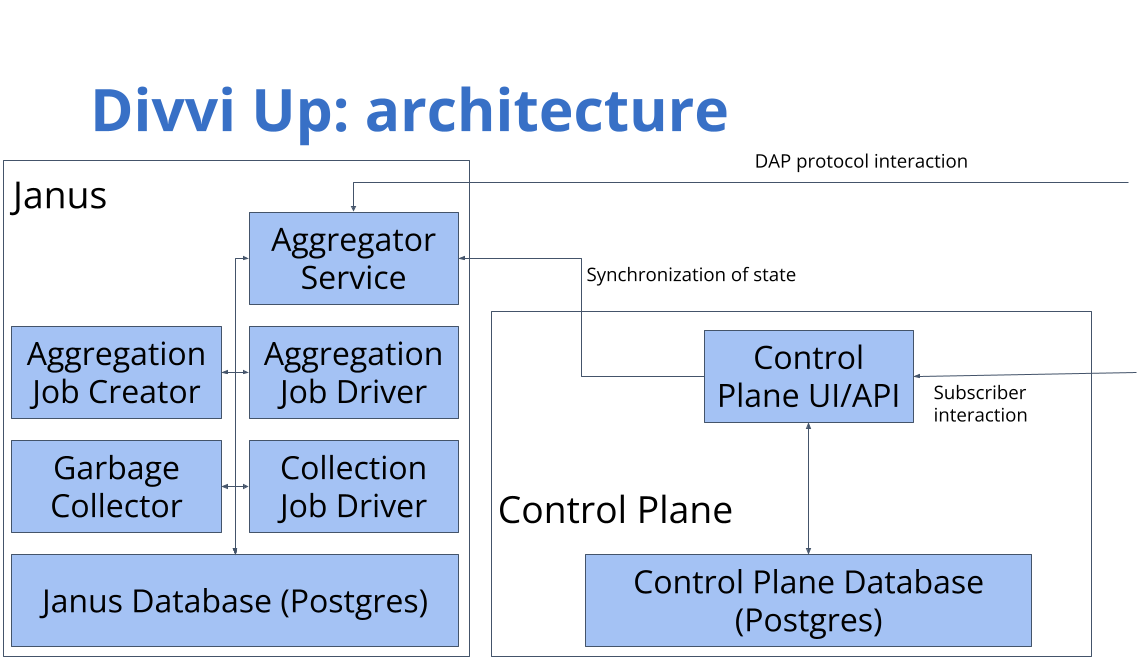
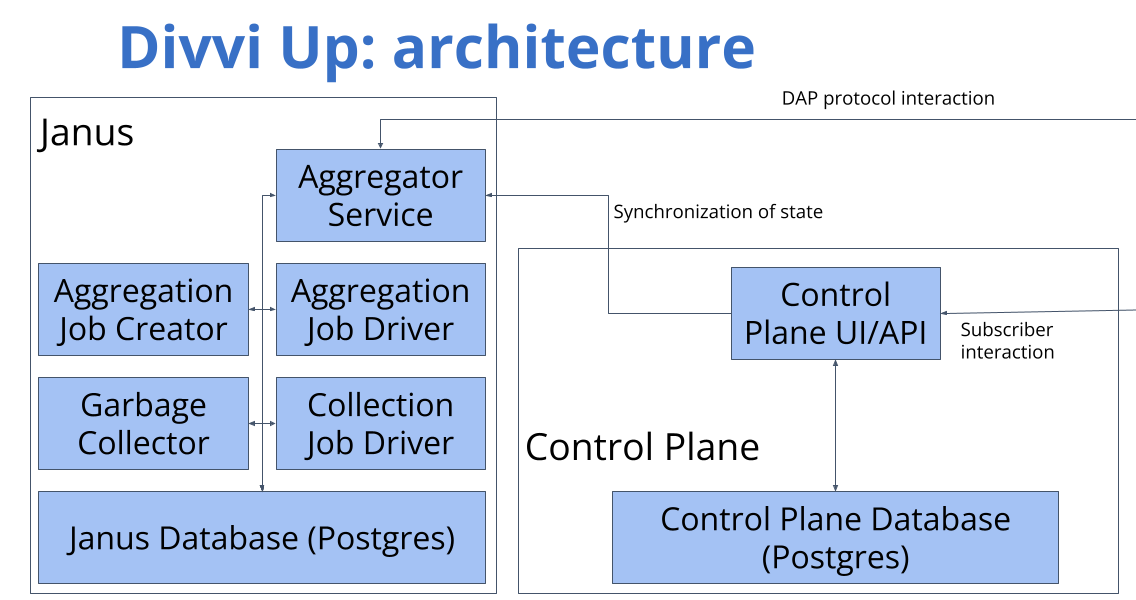
Updating figure and figcaption layout

Changed region(s): [[0.0, 0.03, 1.0, 1.0], [0.6778, 0.15, 0.8935, 0.18], [0.5238, 0.33, 0.7394, 0.36]]

diff --git a/assets/sass/post.scss b/assets/sass/post.scss
@@ -9,6 +9,8 @@ $readable_max_width: 680px;
 $readable_font_size: 20px;
 $readable_line_height: 34px;
 $readable_page_title_line_height: 1.3;
+$small_font_size: 14px;
+$small_line_height: 20px; /* Must be in px */
 $readable_page_title_font: 52px;
 
 .page__blog,
@@ -88,7 +90,7 @@ $readable_page_title_font: 52px;
     }
 
 
-    img {
+    figure,img {
       max-width: 100%;
     }
     p:has(+ img) {
@@ -96,7 +98,7 @@ $readable_page_title_font: 52px;
       margin-left: auto;
       margin-right: auto;
     }
-    .blog_list_item,h2,h3,h4,h5,h6,p,ul {
+    .blog_list_item,h2,h3,h4,h5,h6,p,ul,figcaption {
       max-width: $readable_max_width;
       margin-left: auto;
       margin-right: auto;
@@ -116,6 +118,16 @@ $readable_page_title_font: 52px;
       & > .container { /* Reset padding to make page title left aligned on posts */
         padding-left: 0;
         padding-right: 0;
+      }
+    }
+
+    figure {
+      margin-bottom: $readable_line_height;
+
+      figcaption {
+        font-size: $small_font_size;
+        line-height: $small_line_height;
+        margin-top: 8px;
       }
     }
   }

diff --git a/assets/sass/main.scss b/assets/sass/main.scss
@@ -283,3 +283,4 @@ code[class*="language-"], pre[class*="language-"], pre {
 a code {
   color: #e3116c;
 }
+

diff --git a/content/en/blog/2024-08-01-command-line-intro.md b/content/en/blog/2024-08-01-command-line-intro.md
@@ -27,8 +27,10 @@ Our production Divvi Up environments have processed hundreds of millions of repo
 
 For the command line tutorial we use these same container images but configured via `docker compose` with the [compose.yaml](https://github.com/divviup/divviup-api/blob/main/compose.yaml) that we publish.
 
-![](/images/blog/2024-08-01-Command-Line-Intro-Divvi-Up-Architecture.png)
-*This is the complete architecture diagram of the Divvi Up leader role. There can be some simplifications depending on the needs though. For example, the helper role deploys a subset of these services and some services, like the garbage collector, can be run in-process instead of as a separate service.*
+<figure>
+<img src="/images/blog/2024-08-01-Command-Line-Intro-Divvi-Up-Architecture.png"  />
+<figcaption>This is the complete architecture diagram of the Divvi Up leader role. There can be some simplifications depending on the needs though. For example, the helper role deploys a subset of these services and some services, like the garbage collector, can be run in-process instead of as a separate service.</figcaption>
+</figure>
 
 As an open source project we also provide docs on how to get started with compiling and running all of the Divvi Up components on the [janus](https://github.com/divviup/janus?tab=readme-ov-file#building) and [divviup-api](https://github.com/divviup/divviup-api/tree/main?tab=readme-ov-file#local-development) git repos.
 
